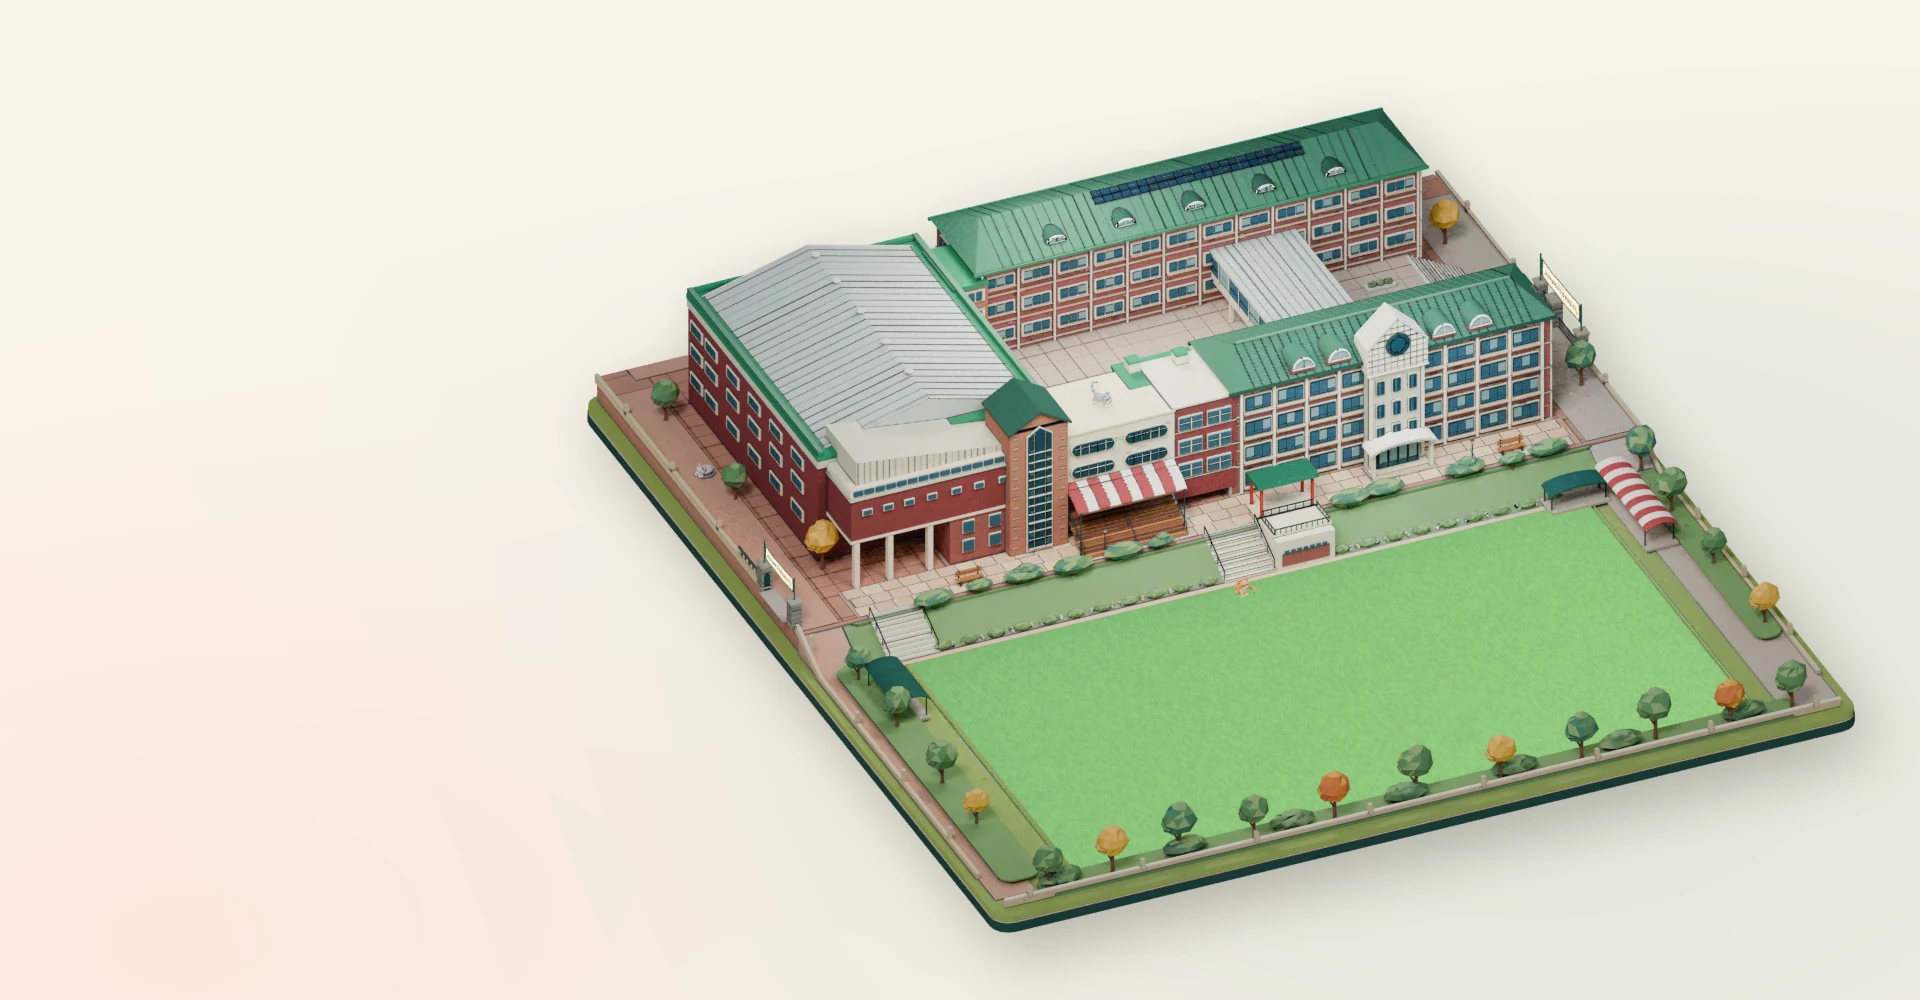
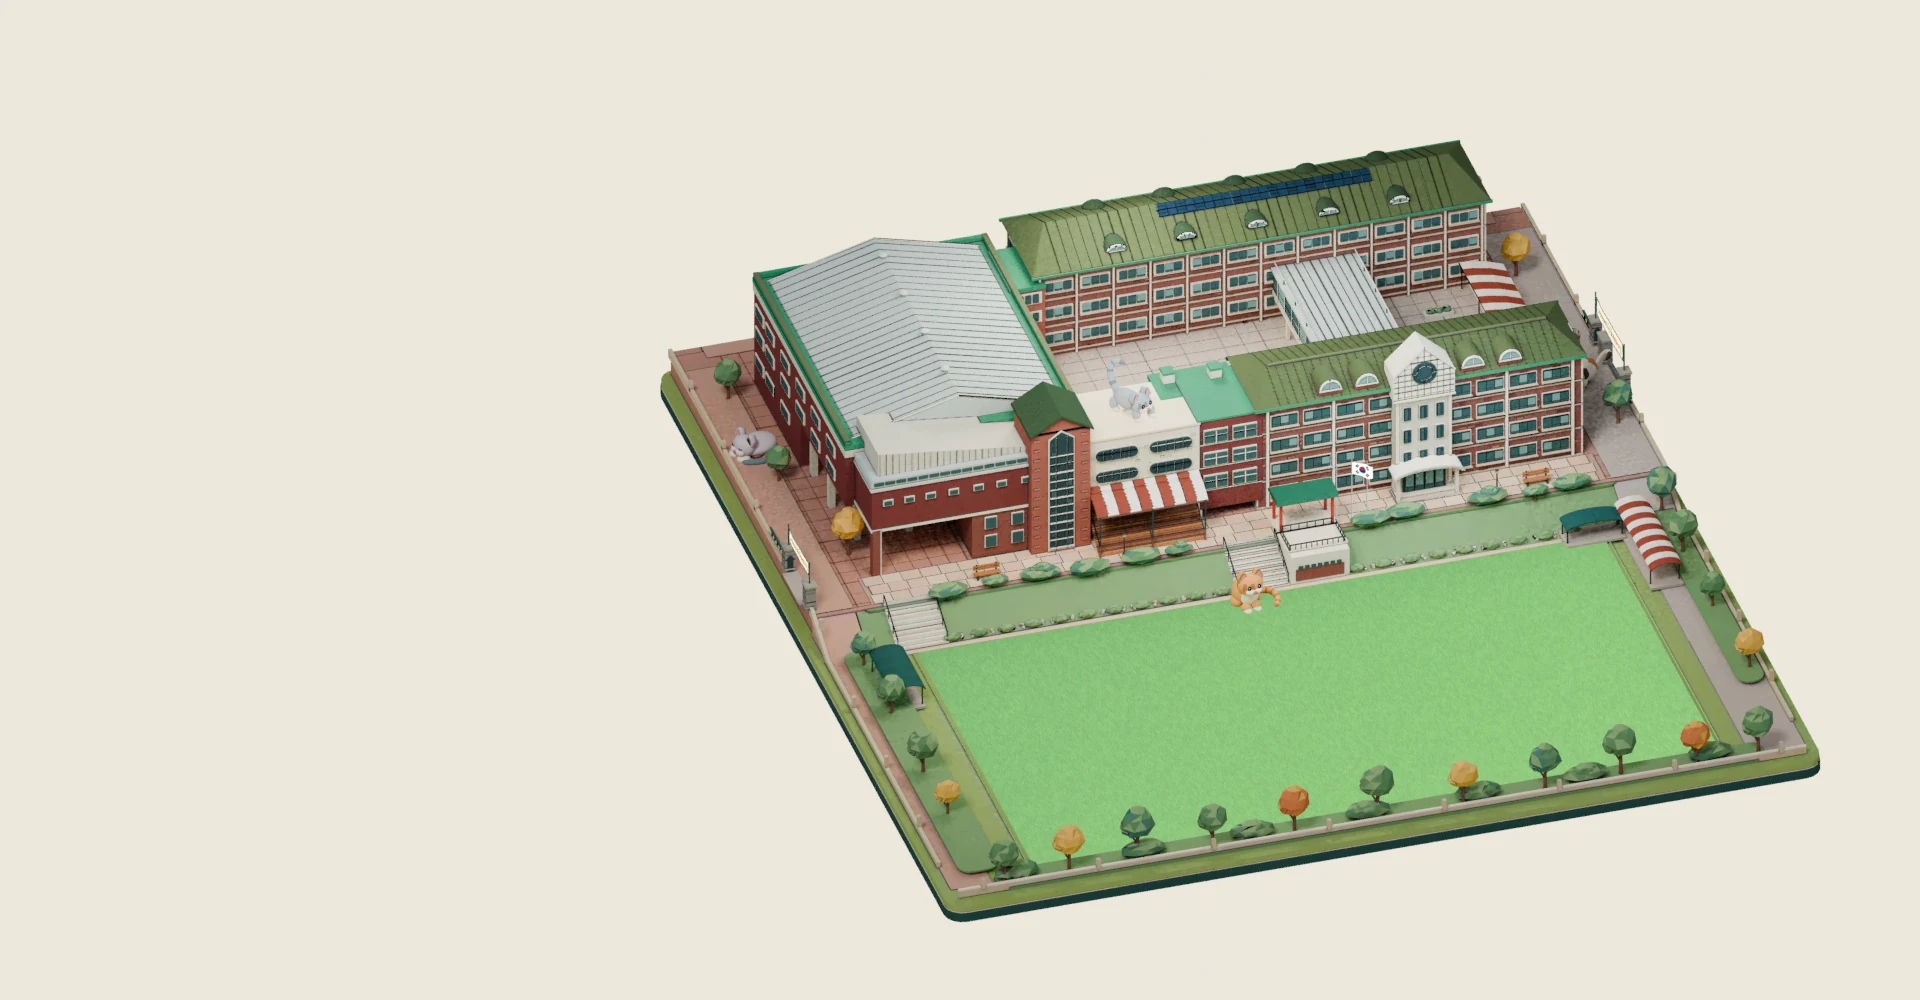
투어 첫 화면: PC 첫 그림을 v11 모델 렌더로 교체
Claude-Session: https://claude.ai/code/session_01PPVqjTUtPsjuFG7ZRrR7Jf

Changed region(s): [[0.2812, 0.093, 0.9688, 0.961]]

diff --git a/tour/index.html b/tour/index.html
@@ -211,7 +211,7 @@
       <div class="cover-stage">
         <picture>
           <source media="(max-width: 480px)" width="1000" height="1400" srcset="img/campus-3d/cover-mobile.webp?v=20261126-dex">
-          <img class="cover-poster" src="img/campus-3d/cover-pc.webp?v=20261126-dex" width="1920" height="1000" fetchpriority="high" alt="AI로 지은 우리 학교 전경">
+          <img class="cover-poster" src="img/campus-3d/cover-pc.webp?v=20261126-v11" width="1920" height="1000" fetchpriority="high" alt="AI로 지은 우리 학교 전경">
         </picture>
         <button type="button" class="cover-cats" aria-live="polite" hidden>고양이 도감 <b>0</b>/5</button>
         <p class="cover-hint" aria-hidden="true">끌어서 돌리기 · 두 번 눌러 확대 · 숨은 고양이 찾기</p>
@@ -394,7 +394,7 @@
   <script src="js/wardrobe-art.js?v=20261123-airmail"></script>
   <script src="js/board-data.js?v=20261122-board2"></script>
   <script src="js/tour-addons.js?v=20261123-fit"></script>
-  <script src="js/ai-cover.js?v=20261126-v11"></script>
+  <script src="js/ai-cover.js?v=20261126-v11b"></script>
 <script type="text/javascript" src="//wcs.pstatic.net/wcslog.js"></script>
 <script type="text/javascript">
 if(!wcs_add) var wcs_add = {};

diff --git a/tour/js/ai-cover.js b/tour/js/ai-cover.js
@@ -14,7 +14,7 @@
   'use strict';
   const MODEL = 'img/campus-3d/campus.glb?v=20261126-v11';   // 군산여상_전경_v11_돌계단_검토.glb (고양이 2.5배)
   const INTRO = 'img/campus-3d/intro.mp4?v=20261126-v6';   // 군산여상_치즈의_정문인사_v6.mp4
-  const POSTER_PC = 'img/campus-3d/cover-pc.webp?v=20261126-dex';   // 3D 불러오기 전 그림 (휴대폰은 index.html picture가 고름)
+  const POSTER_PC = 'img/campus-3d/cover-pc.webp?v=20261126-v11';   // 3D 불러오기 전 그림 (휴대폰은 index.html picture가 고름)
   // 교정 고양이 도감 5마리 (GPT 에셋 cards/cat-cards.json 순서). at = 모델 좌표(미터, 가로 x · 고양이 머리 높이 y · 앞뒤 z)
   // 카드 그림 img/campus-3d/cats/<id>.webp (864×1080, 이름·소개가 그림 안에 있음), 못 찾은 칸은 locked.webp
   const CATS = [
